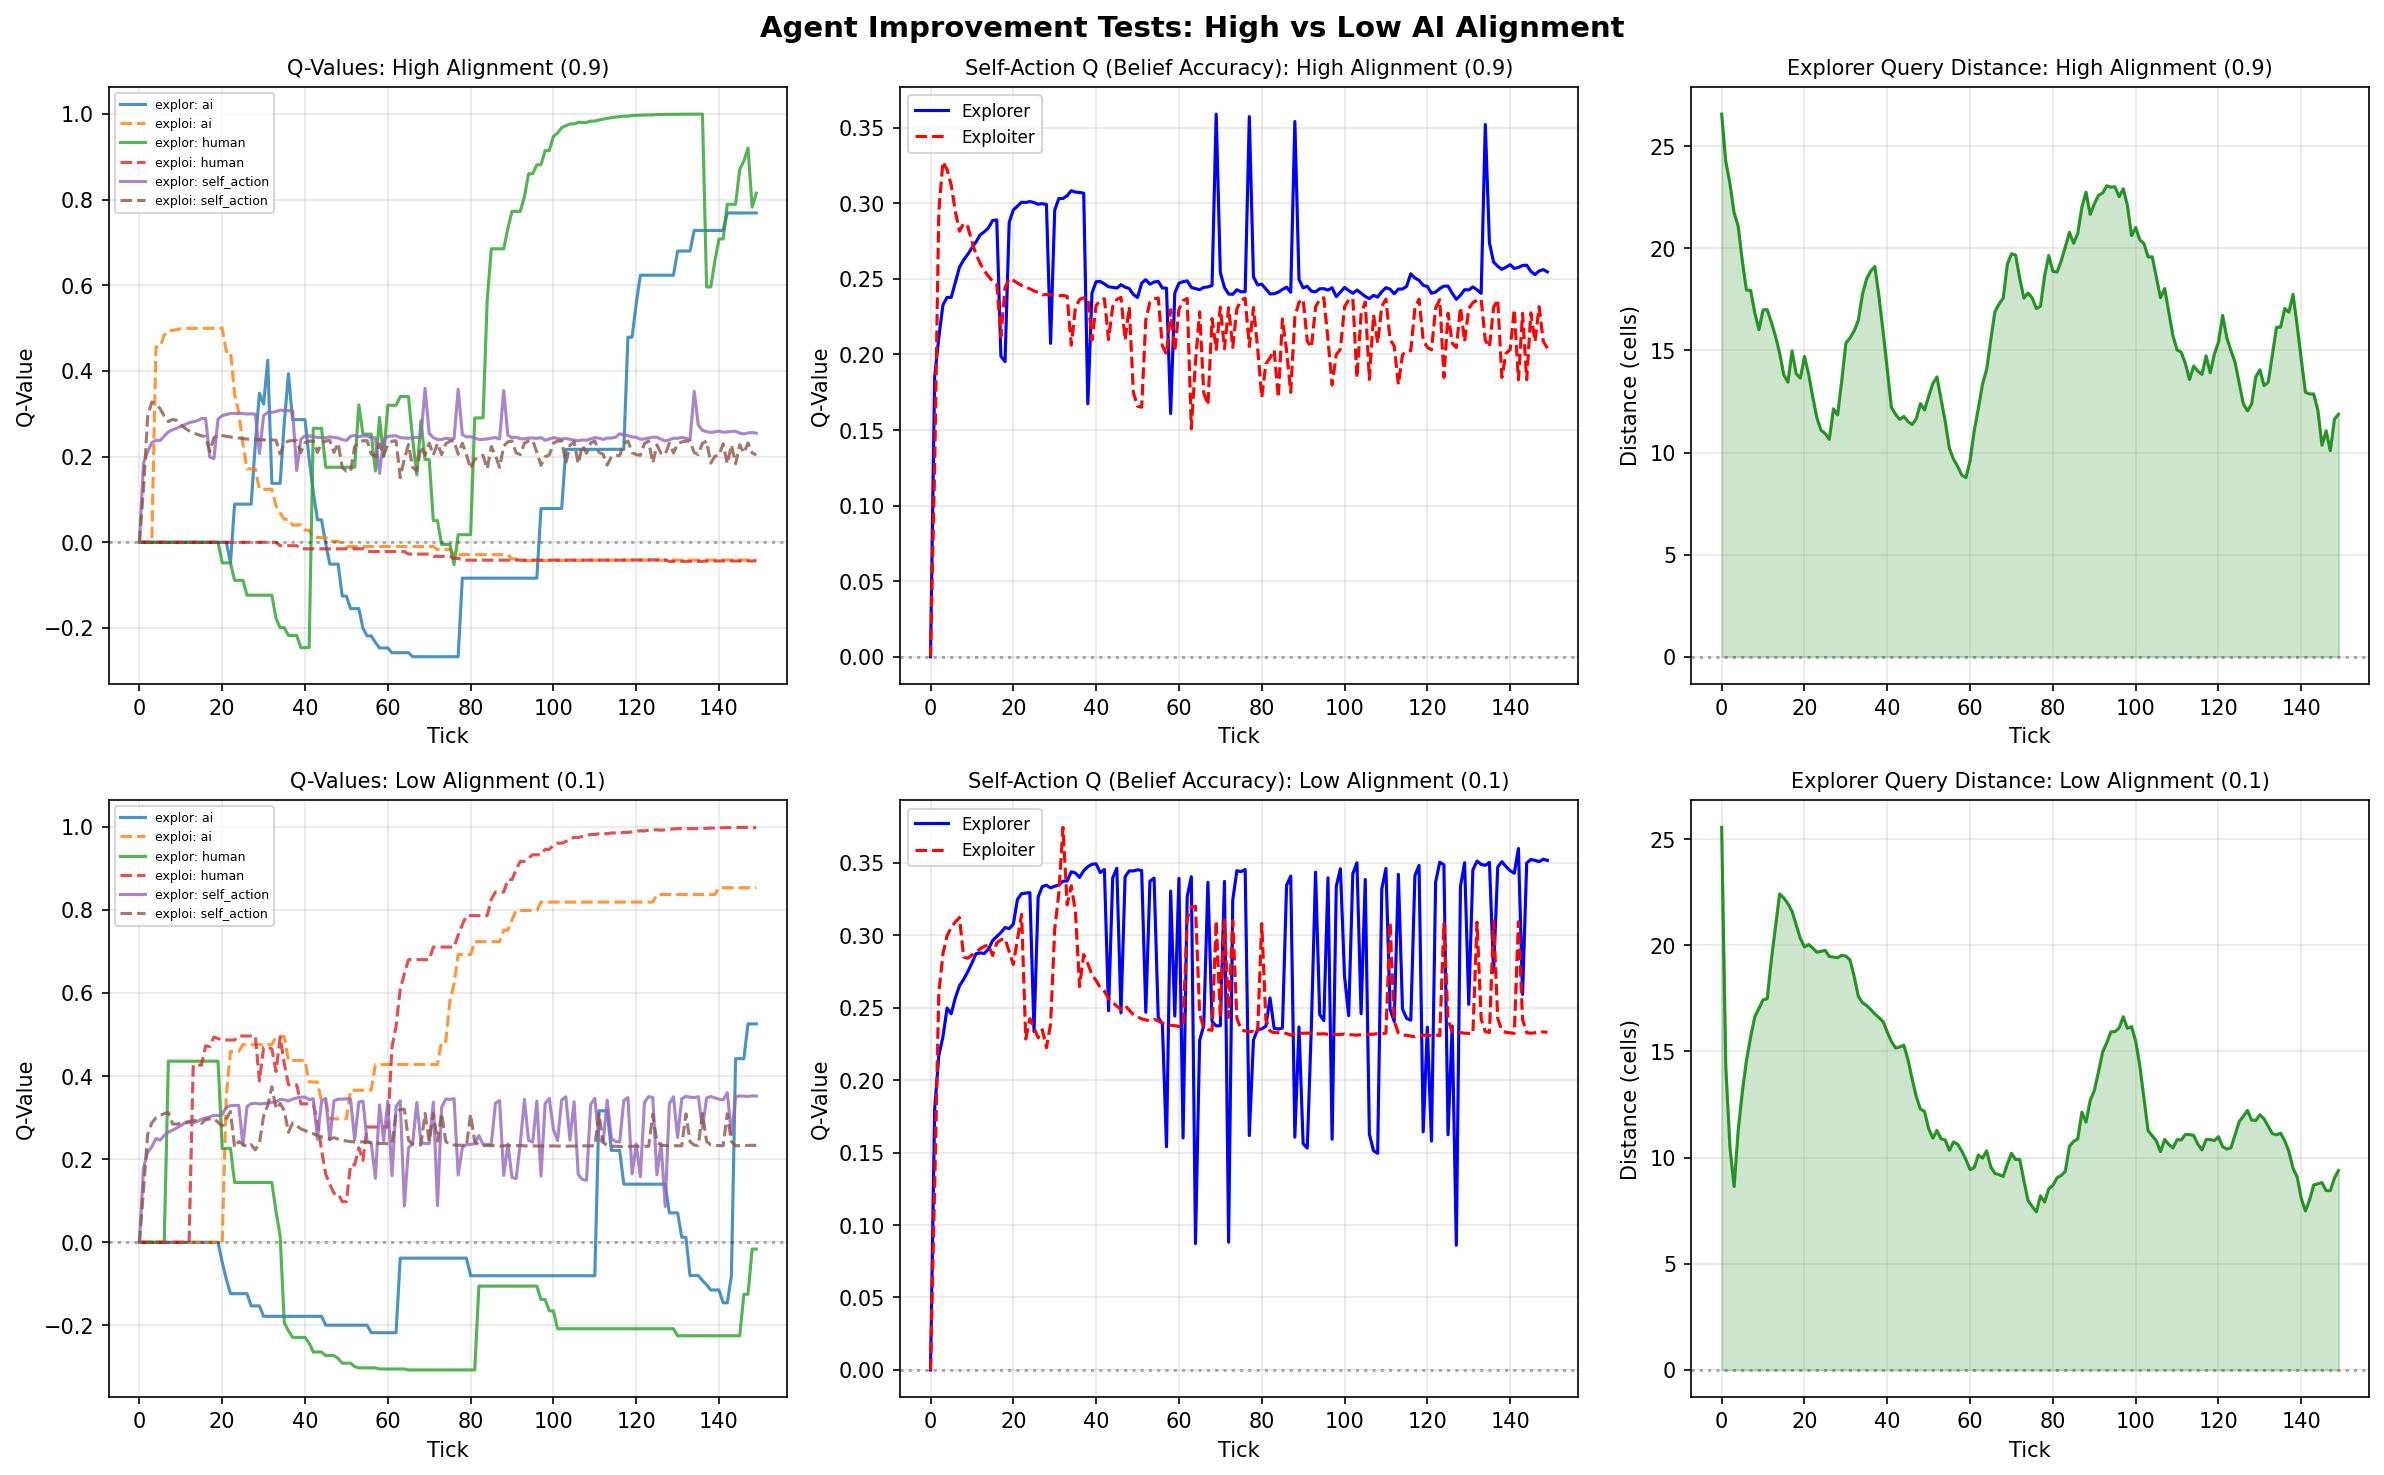
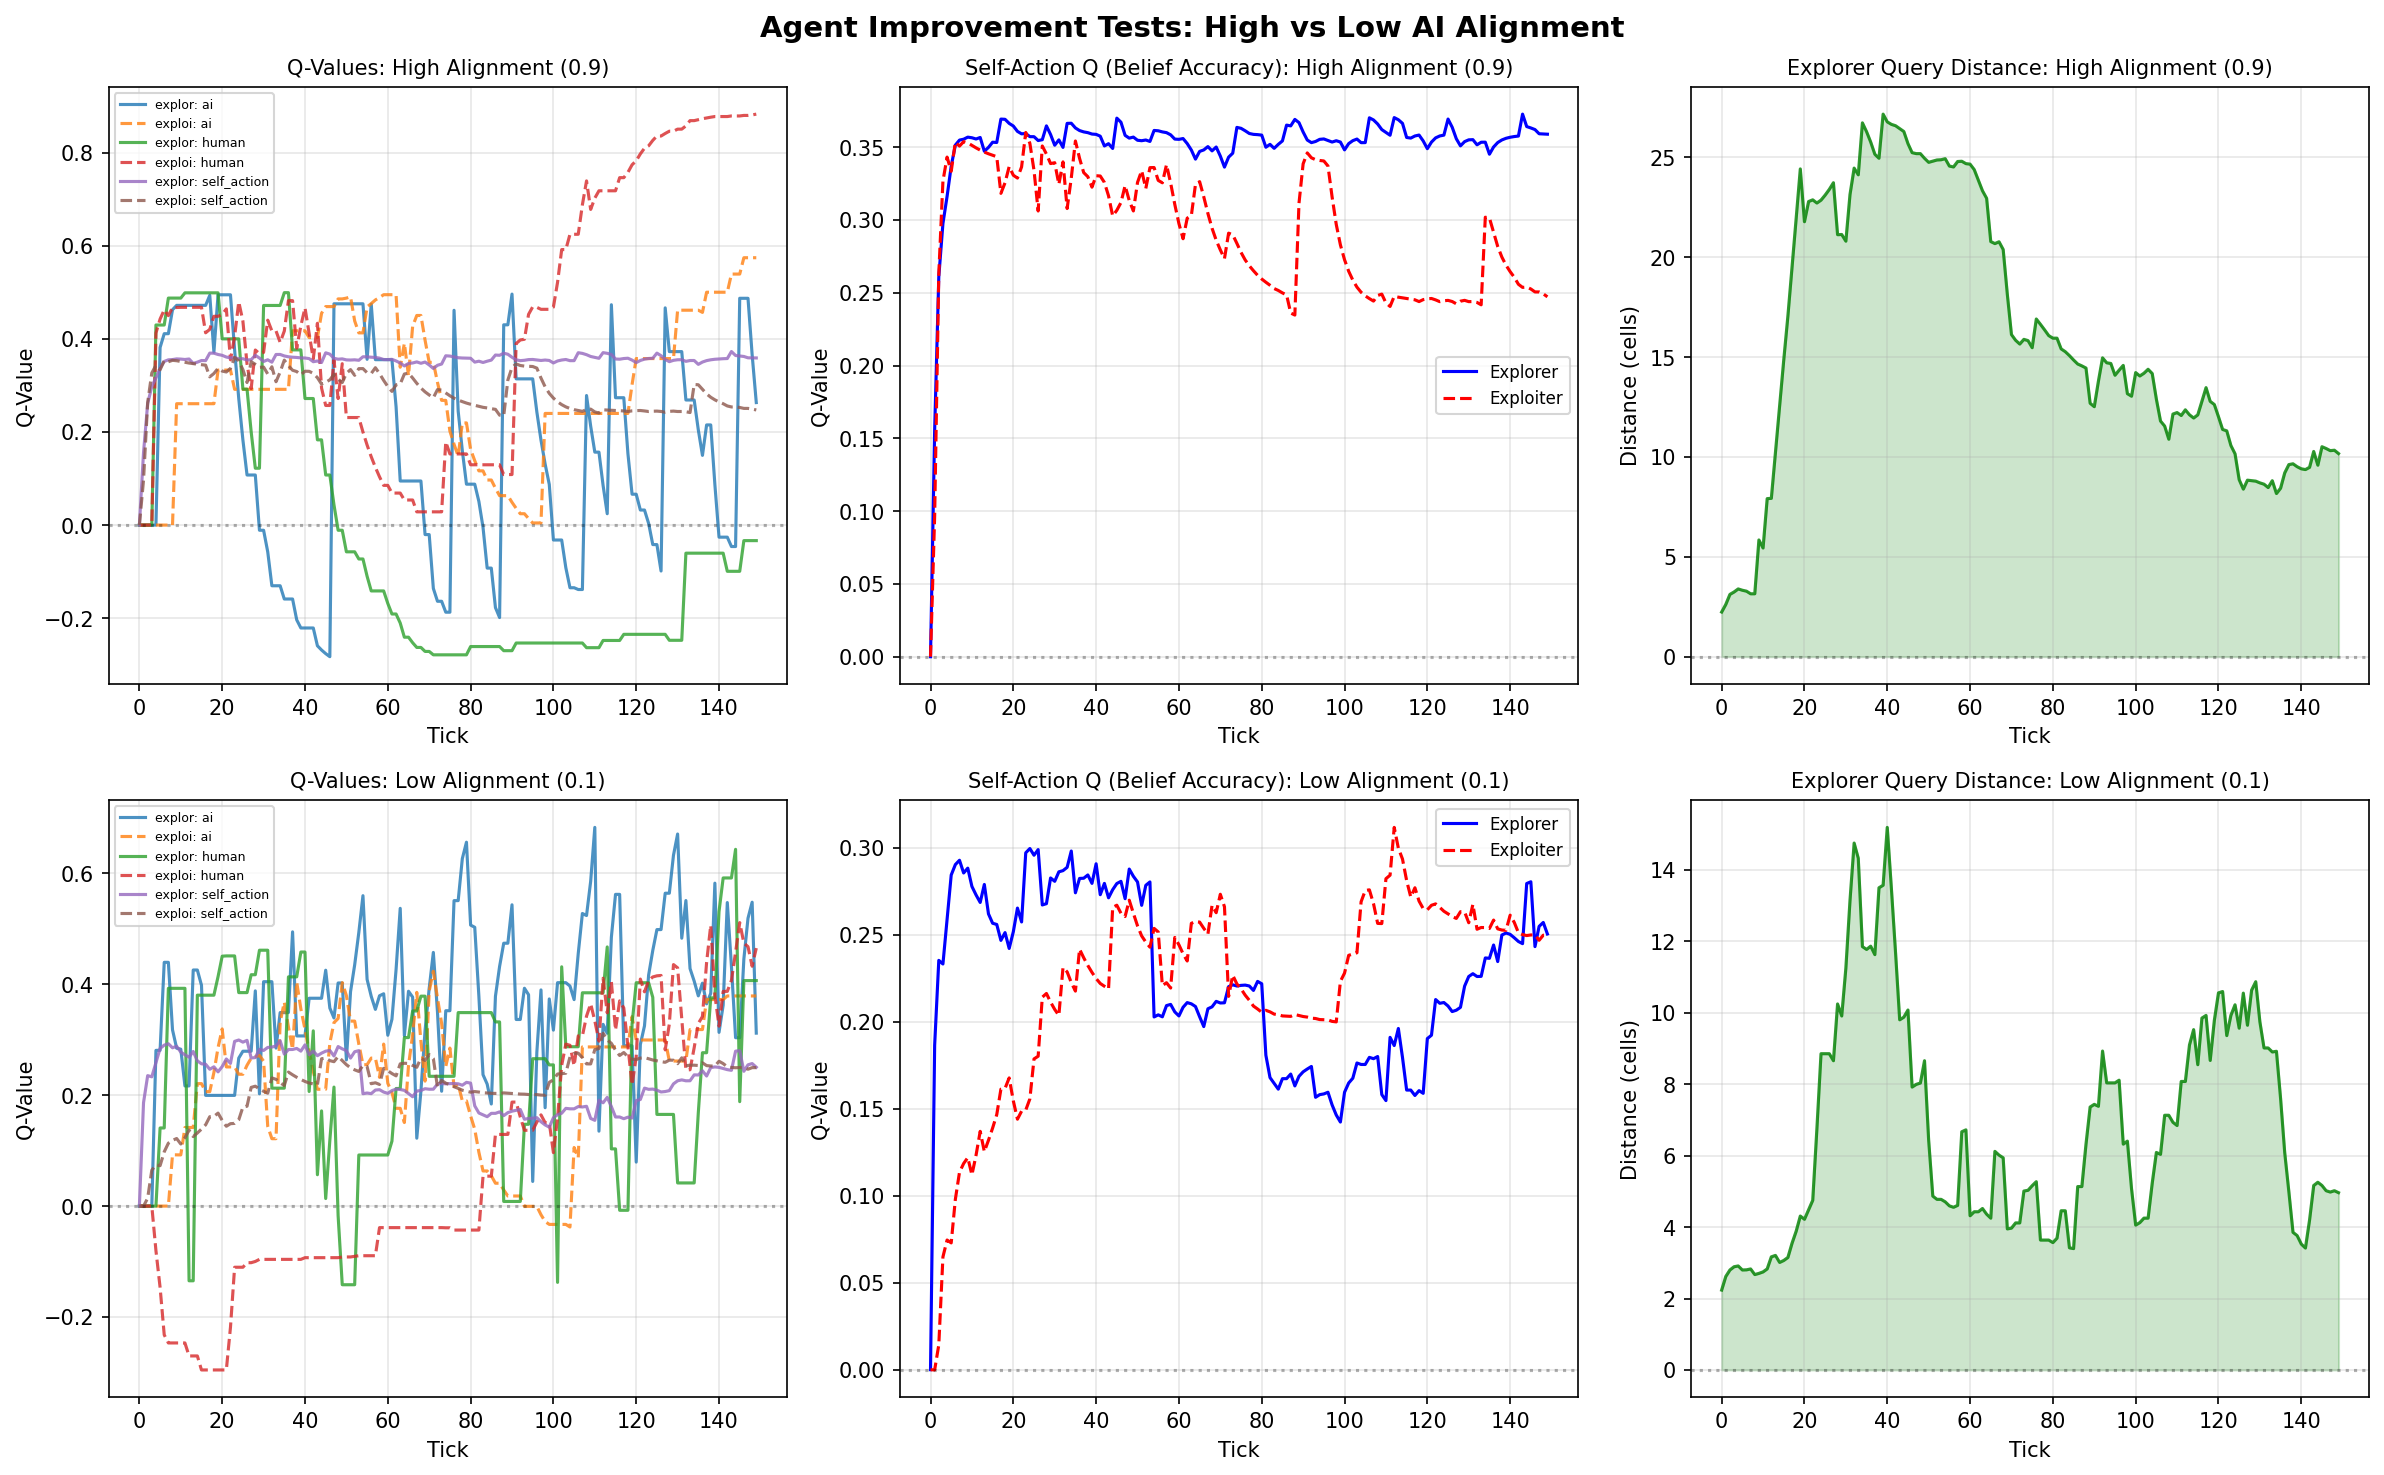
Fix observe-request-decide: agents always query external sources
- Remove self_action from seek_information mode selection.
  Agents ALWAYS query human or AI at each step. Q-learning decides
  WHO to ask, not WHETHER to ask. self_action Q-value is updated
  only via belief accuracy reward (Issue 2).

- Fix explorer feedback gap: add distance penalty in
  find_highest_uncertainty_area() so explorers prefer uncertain
  cells within sensing range, enabling info quality feedback.

- Add Test 5: verify 0% self_action queries, track feedback counts.

Results: exploratory 331 info feedback events / 50 ticks,
exploitative 33 (queries distant epicenter, fewer sensable cells).

diff --git a/DisasterAI_Model.py b/DisasterAI_Model.py
@@ -275,9 +275,16 @@ class HumanAgent(Agent):
         """
         Explorer seeks areas with highest combined uncertainty.
         Combined metric: 60% low confidence + 40% spatial variance (neighborhood disagreement).
+
+        Prioritizes cells within or near sensing range (radius=2) so that info
+        quality feedback can fire when the agent later senses these cells.
+        Cells beyond sensing range get a distance penalty to balance exploration
+        with feedback capability.
+
         Returns a cell from top-5 uncertain areas for exploration diversity.
         """
         scored_cells = []
+        sensing_radius = 2
 
         for cell, belief in self.beliefs.items():
             if not isinstance(belief, dict):
@@ -303,9 +310,23 @@ class HumanAgent(Agent):
                 # No neighbors with beliefs = high uncertainty
                 normalized_var = 0.5
 
-            # Combined uncertainty score
+            # Combined base uncertainty score
             uncertainty = 0.6 * conf_uncertainty + 0.4 * normalized_var
-            scored_cells.append((cell, uncertainty))
+
+            # Distance penalty: strongly prefer cells within sensing range
+            # so that info quality feedback can verify queried information.
+            # Cells within radius get full score; beyond that, score decays.
+            if self.pos:
+                dist = math.sqrt((cell[0] - self.pos[0])**2 + (cell[1] - self.pos[1])**2)
+                if dist <= sensing_radius:
+                    distance_factor = 1.0  # Full score for sensible cells
+                else:
+                    # Decay: cells at 2x sensing radius get 50% weight
+                    distance_factor = max(0.2, 1.0 - (dist - sensing_radius) / (sensing_radius * 2))
+            else:
+                distance_factor = 1.0
+
+            scored_cells.append((cell, uncertainty * distance_factor))
 
         if not scored_cells:
             # Fallback to current position if no beliefs
@@ -1084,9 +1105,10 @@ class HumanAgent(Agent):
                 #print(f" > Ground truth: {self.model.disaster_grid[interest_point[0], interest_point[1]]}")
 
             # Source selection (epsilon-greedy with type-specific biases)
-            # Use 3-mode structure: self_action, human, ai
-            # Then select specific source within chosen mode
-            possible_modes = ["self_action", "human", "ai"]
+            # Agents ALWAYS query an external source (human or AI) at each step.
+            # Q-learning determines WHO to ask, not WHETHER to ask.
+            # self_action Q-value is updated separately via belief accuracy reward.
+            possible_modes = ["human", "ai"]
 
             # Store Q-values
             for mode in possible_modes:
@@ -1110,28 +1132,17 @@ class HumanAgent(Agent):
                 decision_factors['biases'] = {}
 
                 if self.agent_type == "exploitative":
-                    # Exploitative agents prefer friends and self-confirmation
+                    # Exploitative agents prefer friends (human sources)
                     scores["human"] += self.exploit_friend_bias
-                    scores["self_action"] += self.exploit_self_bias
 
                     decision_factors['biases']["human"] = self.exploit_friend_bias
-                    decision_factors['biases']["self_action"] = self.exploit_self_bias
-
-                    # NO AI bias - let Q-learning determine AI value through experience
 
                 else:  # exploratory
                     # Exploratory agents seek diverse information sources
-                    # Bias toward querying to get info quality feedback
-                    scores["human"] += 0.2   # Encourage querying humans
-                    scores["ai"] += 0.2      # Encourage querying AI
-                    scores["self_action"] -= 0.1  # Discourage pure self-reliance
+                    # Mild bias toward AI for broader coverage
+                    scores["ai"] += 0.1
 
-                    decision_factors['biases']["human"] = 0.2
-                    decision_factors['biases']["ai"] = 0.2
-                    decision_factors['biases']["self_action"] = -0.1
-
-                    # NO alignment-based biases - let Q-learning determine which sources are good
-                    # Exploratory agents will naturally prefer accurate sources through feedback
+                    decision_factors['biases']["ai"] = 0.1
 
                 # Add small random noise to break ties
                 for mode in scores:
@@ -1162,13 +1173,9 @@ class HumanAgent(Agent):
             self.tokens_this_tick = {chosen_mode: 1}
             self.last_queried_source_ids = []
 
-            # Query source based on chosen mode
+            # Query source based on chosen mode (always external: human or AI)
 
-            if chosen_mode == "self_action":
-                reports = self.report_beliefs(interest_point, query_radius)
-                source_id = None  # No external source used
-
-            elif chosen_mode == "human":
+            if chosen_mode == "human":
                 # Select specific human source within "human" mode
                 valid_sources = [h for h in self.model.humans if h != self.unique_id]
                 if not valid_sources:

diff --git a/test_agent_improvements.py b/test_agent_improvements.py
@@ -327,6 +327,68 @@ def test_phase_structure():
 
 
 # ============================================================================
+# Test 5: Agents Always Query External Sources
+# ============================================================================
+
+def test_always_queries():
+    """
+    Verify that agents always query an external source (human or AI) at each step.
+    Track query mode distribution and feedback event counts over a short run.
+    """
+    print("\n--- Test 5: Agents Always Query External Sources ---")
+
+    params = base_params.copy()
+    params['ai_alignment_level'] = 0.5
+    params['ticks'] = 50
+    model = DisasterModel(**params)
+
+    # Track mode choices and feedback events per agent type
+    mode_counts = {'exploratory': {'human': 0, 'ai': 0, 'self_action': 0},
+                   'exploitative': {'human': 0, 'ai': 0, 'self_action': 0}}
+    info_feedback = {'exploratory': 0, 'exploitative': 0}
+    total_steps = {'exploratory': 0, 'exploitative': 0}
+
+    for tick in range(params['ticks']):
+        # Snapshot pending evals before step
+        pre_pending = {}
+        for agent in model.agent_list:
+            if isinstance(agent, HumanAgent):
+                pre_pending[agent.unique_id] = len(agent.pending_info_evaluations)
+
+        model.step()
+
+        # Count mode choices and feedback events
+        for agent in model.agent_list:
+            if not isinstance(agent, HumanAgent):
+                continue
+            atype = agent.agent_type
+            total_steps[atype] += 1
+
+            # Check what mode was chosen this tick
+            for mode in agent.tokens_this_tick:
+                if mode in mode_counts[atype]:
+                    mode_counts[atype][mode] += 1
+
+            # Check if info feedback fired (pending list got shorter)
+            post_pending = len(agent.pending_info_evaluations)
+            pre = pre_pending.get(agent.unique_id, 0)
+            if post_pending < pre:
+                info_feedback[atype] += (pre - post_pending)
+
+    for atype in ['exploratory', 'exploitative']:
+        total = sum(mode_counts[atype].values())
+        print(f"\n  {atype} ({total_steps[atype]} agent-steps):")
+        for mode, count in mode_counts[atype].items():
+            pct = (count / total * 100) if total > 0 else 0
+            print(f"    {mode:12s}: {count:5d} ({pct:.1f}%)")
+        self_pct = (mode_counts[atype]['self_action'] / total * 100) if total > 0 else 0
+        print(f"    PASS no self_action queries: {mode_counts[atype]['self_action'] == 0}")
+        print(f"    Info feedback events: {info_feedback[atype]}")
+
+    return mode_counts, info_feedback
+
+
+# ============================================================================
 # Integration Test: Full Simulation with Tracking
 # ============================================================================
 
@@ -474,6 +536,7 @@ if __name__ == "__main__":
     test_weighted_q_reward()           # Issue 5
     test_belief_accuracy_reward()      # Issue 2
     test_phase_structure()             # Issue 3
+    test_always_queries()              # Agents always query external sources
 
     # Issue 4 needs a warmed-up model (run a few ticks first)
     print("\n--- Warming up model for uncertainty-seeking test ---")
